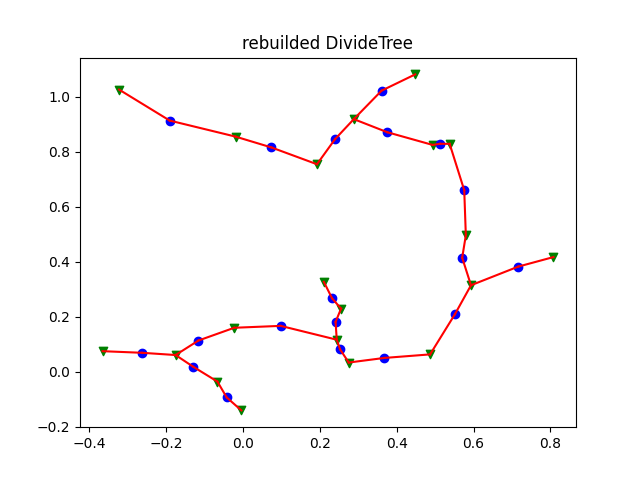
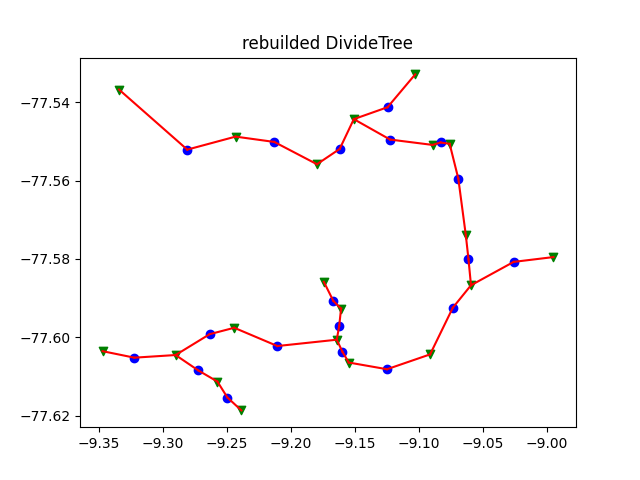
add rebuild saddle|eveluation

diff --git a/Model_MolGAN/evaluationGAN.py b/Model_MolGAN/evaluationGAN.py
@@ -22,6 +22,7 @@ from analysis.peaksdata import *
 
 from utils.treeEditDistance import *
 import math
+from math import radians, cos, sin, asin, sqrt
 
 from rebuildSaddles import rebuildDivideTree
 from main import testCaseGenerator
@@ -112,6 +113,22 @@ def kldistance(distribution, synthesisValues):
         distance += phSynth[i]*(math.log(phSynth[i]) - math.log(phNorm[i]))
     return distance
 
+ 
+def haversine(lon1, lat1, lon2, lat2): 
+    """
+    Calculate the great circle distance between two points 
+    on the earth (specified in decimal degrees)
+    """
+    lon1, lat1, lon2, lat2 = map(radians, [lon1, lat1, lon2, lat2])
+ 
+    # haversine
+    dlon = lon2 - lon1 
+    dlat = lat2 - lat1 
+    a = sin(dlat/2)**2 + cos(lat1) * cos(lat2) * sin(dlon/2)**2
+    c = 2 * asin(sqrt(a)) 
+    r = 6371 
+    return c * r
+
 def generateSample(size, draw=True):
     z = solver.sample_z(1)
     z = Variable(torch.from_numpy(z)).to(solver.device).float()
@@ -133,8 +150,8 @@ def generateSample(size, draw=True):
     # disk radius = 8km
     
     for i in range(size):
-        x = nodes[i][0]
-        y = nodes[i][1]
+        x = (nodes[i][0] - 0.5)*0.3 - 9.0874
+        y = (nodes[i][1] - 0.5)*0.07 - 77.5737
         e = nodes[i][2] * (emax - emin) + emin
         p = nodes[i][3] * (pmax - pmin) + pmin
         d = nodes[i][4] * (dmin - dmax) + dmin
@@ -325,18 +342,47 @@ def drawDistributions(iter):
     plt.title('Isolation Distribution') 
     plt.savefig('distribution' + str(iter) + '.png')
 
-
-def rebuild(iter):
+def drawRebuildDistributions(iter):
     solver = testCaseGenerator(iter)
+    generatePointlist = []
+    times = 50
+    for j in range(times):
+        pointList = rebuild(iter, draw=False, needIter=False)
+        generatePointlist += pointList
+
+    fig = plt.figure(figsize=(16, 20))
+    histogramsComparison(distributions['elevation'], np.array(generatePointlist)[:,2], 0, fig)
+    plt.title('Elevation Distribution') 
+    histogramsComparison(distributions['prominence'], np.array(generatePointlist)[:,3], 1, fig)
+    plt.title('Prominence Distribution') 
+    histogramsComparison(distributions['dominance'], np.array(generatePointlist)[:,4], 2, fig)
+    plt.title('Dominence Distribution') 
+    histogramsComparison(distributions['isolation'], np.array(generatePointlist)[:,5], 3, fig)
+    plt.title('Isolation Distribution') 
+    plt.savefig('rebuildDistribution' + str(iter) + '.png')
+
+def rebuild(iter, draw=False, needIter=True):
+    if needIter:
+        solver = testCaseGenerator(iter)
     peaks, _, _ = generateSample(20, draw=False)
+    peakProms = np.array(peaks)[:,3]
     edgesMST = getMstRidges(peaks)
-    e = getTreeHMC(peaks)
-    drawMST(e)
-    plt.show()
-    saddles, saddlePeaks, ridgeTree, peakElevs, peakCoords = rebuildDivideTree(peaks, edgesMST) 
-    drawDivideTree(peaks, saddles, saddlePeaks)
-
-
+    # e = getTreeHMC(peaks)
+    # drawMST(e)
+    # plt.show()
+    saddles, saddlePeaks, saddleElevs, ridgeTree, peakElevs, peakCoords = rebuildDivideTree(peaks, edgesMST) 
+    if draw:
+        drawDivideTree(peaks, saddles, saddlePeaks)
+    promSaddle, promParent, promValues, KeySaddleMatrix = computeProminences(ridgeTree, peakElevs, saddleElevs, saddlePeaks)
+    peakDoms = peakProms / peakElevs   
+    isolDists, isolCoords = computeIsolations(peakCoords, peakElevs)
+    print('REBULD DONE!')
+    for i in range(len(peaks)):
+        peaks[i][3] = peakProms[i]
+        peaks[i][4] = peakDoms[i]
+        peaks[i][5] = isolDists[i]
+        
+    return peaks
 # compareIteration()
 # calEdgeNum(140000, True)
 # calDistance(140000)
@@ -351,5 +397,11 @@ def run():
 # run()
 
 # drawDistributions(190000)
+drawRebuildDistributions(190000)
+# rebuild(190000)
 
-rebuild(190000)
+# [-9.0874, -77.5737]
+# d = haversine(-9.0874, -77.5737, -9.3874, -77.5737)
+# longitude radius 0.3, latitude radius 0.07
+# (x - 0.5)*0.3 - 9.0874
+# (y - 0.5)*0.07 - 77.5737

diff --git a/Model_MolGAN/rebuildSaddles.py b/Model_MolGAN/rebuildSaddles.py
@@ -44,11 +44,12 @@ def rebuildDivideTree(peaks, ridges):
         ridgeTree: RidgeTree[i,j] == saddle id connecting peak i to peak j, -1 ortherwise
         saddlePeaks: saddlePeaks[i] = [peak0, peak1]
     '''
-    peakElevs = dict()
-    peakCoords = dict()
+    peakElevs = list()
+    peakCoords = list()
     ridgeTree = -1 * np.ones((len(peaks), len(peaks)))
     saddlePeaks = list()
     saddles = list()
+    saddleElevs = list()
 
     peakAdj = collections.defaultdict(list)
     for i in range(len(ridges)):
@@ -56,8 +57,8 @@ def rebuildDivideTree(peaks, ridges):
         peakAdj[ridges[i][1]].append(ridges[i][0])
     
     for i in range(len(peaks)):
-        peakCoords[i] = [peaks[i][0], peaks[i][1]]
-        peakElevs[i] = peaks[i][2]
+        peakCoords.append([peaks[i][0], peaks[i][1]])
+        peakElevs.append(peaks[i][2])
 
     # random choose one peak
     peakidx = random.randint(0, len(peaks))
@@ -67,6 +68,8 @@ def rebuildDivideTree(peaks, ridges):
     
     for i in range(len(saddles)):
         saddlePeaks.append(saddles[i][3:])
+        saddleElevs.append(saddles[i][2])
         ridgeTree[saddles[i][3],saddles[i][4]] = i
+        ridgeTree[saddles[i][4], saddles[i][3]] = i
 
-    return saddles, saddlePeaks, ridgeTree, peakElevs, peakCoords
+    return np.array(saddles), np.array(saddlePeaks), np.array(saddleElevs), np.array(ridgeTree).astype(int), np.array(peakElevs), np.array(peakCoords)

diff --git a/utils/metrics.py b/utils/metrics.py
@@ -59,7 +59,7 @@ def computeProminences(RidgeTree, peakElevs, saddleElevs, saddlePeaks):
         pKeySaddle = -1
         pPromParent = -1
         hKeySaddle = 0  
-        
+
         # for all reachable higher peaks
         for pj in higherPeaks:
         
@@ -74,7 +74,7 @@ def computeProminences(RidgeTree, peakElevs, saddleElevs, saddlePeaks):
                 curr = preds[curr]
             path.append(pi)
             path = path[::-1]
-
+            print(path)
             # follow path pi->pj stopping at first higher peak, and keep lowest saddle
             minSaddle = -1
             minSaddleElev = peakElevs[pi] + 0.1
@@ -107,7 +107,10 @@ def computeProminences(RidgeTree, peakElevs, saddleElevs, saddlePeaks):
 
         promSaddle[pi] = pKeySaddle
         promParent[pi] = pPromParent
-        promValues[pi] = peakElevs[pi] - saddleElevs[pKeySaddle]
+        if pKeySaddle < 0:
+            promValues[pi] = peakElevs[pi]
+        else:
+            promValues[pi] = peakElevs[pi] - saddleElevs[pKeySaddle]
     
     return promSaddle, promParent, promValues, KeySaddleMatrix
 

diff --git a/utils/seqdata_gen.py b/utils/seqdata_gen.py
@@ -260,7 +260,6 @@ def genFullSeqExample(rootNode, isDFS=False):
     return nodeOrder
 
 def genDataMolGAN(peaks):
-    # For demo
     vertices = list(peaks.index)
     gsample = Graph()
     pairs = set()
